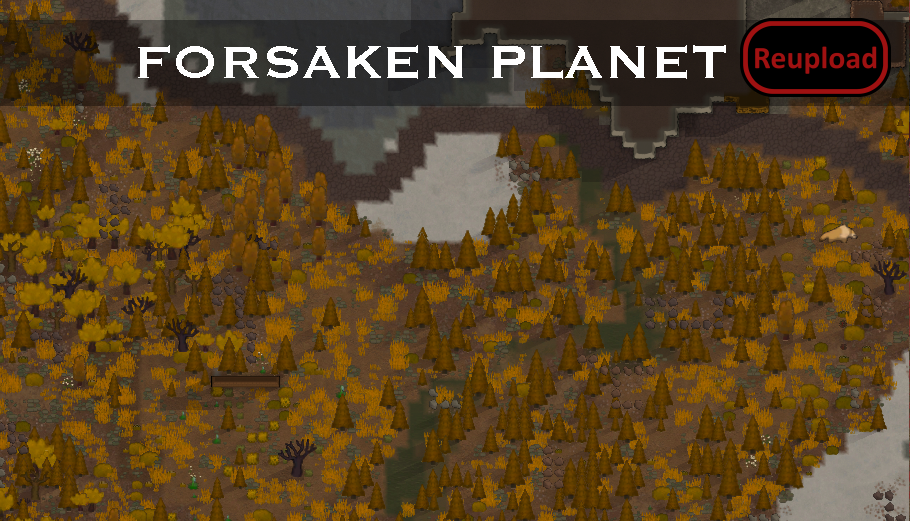
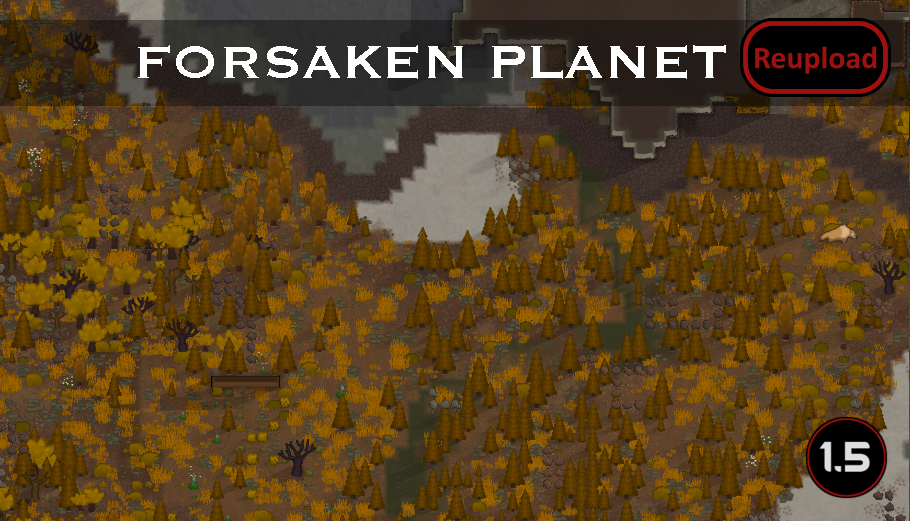
Mod updated for 1.5 and passed autotests

Changed region(s): [[0.8615, 0.7985, 0.9846, 0.952]]

diff --git a/README.md b/README.md
@@ -38,11 +38,13 @@ IMPORTANT: I won't be updating this mod anymore. Anyone is welcome to update it 
 
 -  See if the the error persists if you just have this mod and its requirements active.
 -  If not, try adding your other mods until it happens again.
--  Post your error-log using https://steamcommunity.com/workshop/filedetails/?id=818773962]HugsLib and command Ctrl+F12
+-  Post your error-log using https://steamcommunity.com/workshop/filedetails/?id=818773962]HugsLib or the standalone https://steamcommunity.com/sharedfiles/filedetails/?id=2873415404]Uploader and command Ctrl+F12
 -  For best support, please use the Discord-channel for error-reporting.
 -  Do not report errors by making a discussion-thread, I get no notification of that.
 -  If you have the solution for a problem, please post it to the GitHub repository.
+-  Use https://github.com/RimSort/RimSort/releases/latest]RimSort to sort your mods
 
 
 
+https://steamcommunity.com/sharedfiles/filedetails/changelog/2434657758]![Image](https://img.shields.io/github/v/release/emipa606/ForsakenPlanet?label=latest%20version&style=plastic&color=9f1111&labelColor=black)
 
